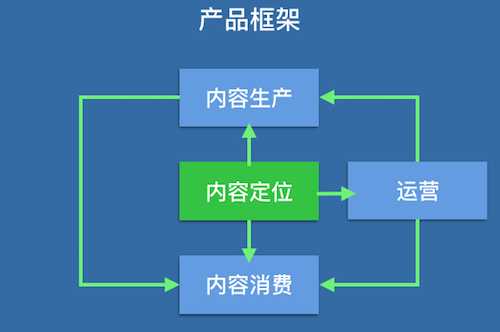
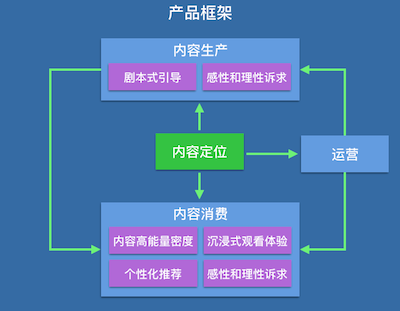
Update

diff --git a/_posts/opinion/2018-04-03-talk-about-douyin.md b/_posts/opinion/2018-04-03-talk-about-douyin.md
@@ -6,11 +6,17 @@ category: opinion
 tag: video, live
 ---
 
-抖音，一款音乐短视频应用，大家应该都知道，就不多介绍背景知识了。作为一个抖音中毒患者，这里从自己的使用体验上聊聊抖音。
+抖音，是一款最近特别火爆的音乐短视频应用。作为一名抖音中毒患者，本文基于自己的使用体验聊一聊这款产品。
+
+我会试着聊聊对一些产品细节的主观感受，其中会涉及到产品中的内容消费、内容生产、参与者诉求等方面。然后尝试从这些细节中来做一些抽象和归因，找找产品背后更具有普遍指导意义的经验。
+
+
 
 ## 产品框架
 
-我基于 iOS 1.7.6 版本，简要地画了一下抖音的产品框架，其中分别用蓝色和绿色背景着重用标出了「内容展示」和「内容创作」相关的页面。
+开聊之前，先看看大致的产品轮廓，有一个大体印象。
+
+我基于 iOS 1.7.6 版本，简要地画了一下抖音的产品框架，其中分别用蓝色和绿色背景着重用标出了「内容消费」和「内容生产」相关的页面或入口。
 
 ![image](../../images/talk-about-douyin/douyin-product-structure.png)
 
@@ -19,24 +25,25 @@ tag: video, live
 
 ## 内容消费
 
+抖音的产品中用户参与最多的环节应该是内容消费，所以从这块开始聊。
 
 ### 内容铺展
 
-从产品框架上来看，可以发现抖音中提供的内容形式大致可以分为这样几类：
+从产品框架上来看，可以发现抖音中组织的内容大致是这样分布的：
 
-- `即时性和短期时效性的内容`：主页顶栏的当前直播与故事。其中，直播是即时性内容；故事是自发布 24 小时内对用户可见的短期时效性内容。
+- `即时性和短期时效性的内容`：主页顶栏的当前直播与故事。其中，直播是即时性内容；故事是自发布 24 小时内对关注用户可见的短时效性内容。
 - `基于个性化推荐算法的内容`：主页推荐 Segment。
-- `基于地理位置的内容`：主页附近 Segment。
+- `基于 LBS 的内容`：主页附近 Segment。
 - `根据页面场景过滤的内容`：
 	- 搜索页面热门列表，由「挑战」和「音乐」过滤出来的固定数量（8 个）的视频集。
 	- 关注页面，由「关注的创作者」过滤出的视频集。
-	- 我的页面，由「我点过赞」过滤出的视频集。
+	- 我的页面，由「我赞过」过滤出的视频集。
 	- 挑战详情页面，由「挑战」过滤出的视频集。
 	- 音乐详情页面，由「音乐」过滤出的视频集。
 	- 用户个人页面，由「该用户创作」过滤出的视频集，由「该用户点过赞」过滤出的视频集。
 
 
-
+主要铺展内容形式是短视频，基于不同的场景进行各种维度的切分。直播和故事作为新的内容形式则较为谨慎地透出。
 
 
 ### 内容时长
@@ -46,7 +53,9 @@ tag: video, live
 - 15 秒，普通用户只能拍摄不超过 15 秒的视频。
 - 1 分钟，高质量创作者可以拍摄不超过 1 分钟的视频。
 
+15 秒短时长的内容使得内容节奏必须较快才能实现一次完整的表达，同时便于观看者快速消费。
 
+1 分钟的短视频是在较新的版本才逐步放开，这个设置应该是在产品从探索期完成冷启动进入成长期为了扩展内容边界所采取的举措。这个权限优先开放给高质量的创作者，以期望保证视频内容质量。
 
 
 ### 内容观感
@@ -55,16 +64,16 @@ tag: video, live
 
 首页一进来就直接是全屏视频自动开播，不绕弯子，直奔主题。
 
-大部分内容都是竖屏全屏铺满的，这样的视觉体验最佳，提供了沉浸式观看体验。
+大部分内容都是竖屏全屏铺满的，提供了沉浸式观看体验。
 
 在内容的呈现上，一般来说，横屏强调叙事，竖屏强调自我表达。
 
 
-2）美颜和滤镜
+2）美颜、滤镜、特效
 
 美颜和滤镜是现在各种短视频拍摄工具的标配。提升拍摄者的颜值和画面美感，是提升视频内容质量的重要手段。
 
-抖音的滤镜针对其音乐短视频的定位，做的还是挺炫酷的。
+抖音的特效滤镜针对其音乐短视频的定位，做的还是挺炫酷的。
 
 <!-- 补充滤镜视频 -->
 
@@ -73,7 +82,7 @@ tag: video, live
 
 抖音里视频的背景音乐大多是节奏感很强的音乐。这里有一个[抖音短视频 BGM 全收录][3]，大家可以听听试试。排在前面的音乐基本上都有鲜明的鼓点节奏。
 
-音乐本身其实就很像是一种「剧本」，当你听到有着鲜明节奏感的音乐，身体的本能就会告诉你该干什么。
+音乐本身其实就很像是一种「剧本」，只是这个剧本不是基于文字描述的，而是基于人的本能节奏。当你听到有着鲜明节奏感的音乐，身体的本能就会告诉你该干什么。
 
 
 4）内容类别
@@ -109,9 +118,9 @@ tag: video, live
 
 #### 内容的高能量密度
 
-要去评价抖音的内容为什么能够如此具有吸引力，从上面列出的这些点来看，其实维度很多，但是可以用一个词来抽象概括：「内容的高能量密度」。
+要去评价抖音的内容为什么能够如此具有吸引力，从上面列出的这些点来看，其实维度很多，常常我们会用「高质量」这样的词去描述，但是太笼统，不量化，所以没什么价值。这里推荐一个词：「内容能量密度」，好像也挺笼统，但是可以量化。
 
-何为内容能量密度？简单来说就是内容单位时间给用户的视听冲击。
+何为内容能量密度？简单来说就是内容单位时间给用户带来的视听冲击。
 
 美女帅哥、酷炫滤镜、强节奏感音乐等等元素在 15 秒的短时长内呈现给用户，使得内容的能量密度很高，给用户的感官刺激很强。而内容时长较短，又能促使用户快速消费，快速切换，就像在一针又一针给用户打药，嗨的就忘了时间了。
 
@@ -146,6 +155,7 @@ tag: video, live
 
 ## 内容生产
 
+内容生产是内容消费的上游，做好了内容定位后，最紧要的就是保证创作者们照着标准去生产。
 
 ### 创作入口
 
@@ -171,7 +181,7 @@ tag: video, live
 
 ### 创作功能
 
-创作流程提供的创作功能是为了帮助用户更方面地创作符合产品内容定位的作品：
+创作流程提供的创作功能是为了帮助用户更方便地创作符合产品内容定位的作品：
 
 - `美颜`，标配，提升创作者颜值，给用户更好的观感。
 - `滤镜`，标配，提升视频画面美感。
@@ -201,13 +211,14 @@ tag: video, live
 
 #### 剧本式引导
 
-上面也讲过了，在我看来，其实挑战、音乐同款、尬舞机都是剧本式引导。
+上面也讲过了，在我看来，其实挑战、音乐同款、尬舞机都是剧本式引导。其中，挑战和音乐同款这两种形式的约束相对宽松，一方面形式的边界有较大的扩展空间，一方面内容的边界也有创新的空间。
 
 剧本式引导是保证内容质量的一种手段，如果控制得当，它会引导创作者生产出大量符合水准的内容，在产品探索期可以帮助确定产品特色，打出产品调性。
 
 但是，也有个问题，剧本式引导带来大量的同质化内容，从长期来看可能导致用户审美疲劳，失去新鲜感。好在目前尚可通过扩展挑战内容和音乐类型来扩展内容类型的宽度，这种扩展在内容分发端则需要配合推荐算法来对内容的能量密度进行个性化细分，否则也可能留不住老用户又拉不来新用户。
 
 
+关于剧本式引导，这里值得一提的还有曾经红极一时的「小咖秀」，但是现在昙花一现了，这是值得思考的问题。
 
 
 
@@ -242,28 +253,35 @@ tag: video, live
 
 ### 从细节到抽象
 
-为什么要抽象？因为对一个产品的分析，最终应该是去从具体的形态和细节中去抽象出理论，找出归因。因为这些理论才更具有通用价值，而归因才更具有普遍解释性。当然，很多时候可能抽象错了，归因不对。
+为什么要抽象？因为对一个产品的分析，最终应该是去从具体的形态和细节中去抽象出理论，找出归因。因为这些理论才更具有通用价值，而归因才更具有普遍解释性。当然，很多时候也可能抽象错了，归因不对。
 
-我们对上面的分析过的一些产品细节进行简化，抽象出产品中的关键概念：
+我们对上面的分析过的一些产品细节进行简化，抽象出一些关键概念：
 
-![image](../../images/talk-about-douyin/key-point.png)
-
-这时候我们可以做这样的描述：在一个「产品框架」上基于产品的「内容定位」去支撑用户完成「内容生产」和「内容消费」的链路，并满足不同角色的感性和理性诉求，而「运营」则通过各种手段来促使这个链路围绕着「内容定位」高效地运作。
-
-
-这里再列一下几个关键词：
-
-- `内容的高能量密度`
-- `沉浸式的观看体验`
-- `高能量密度个性化有效内容的个性化推荐`
+- `内容定位`
+- `内容生产`
+- `内容消费`
+- `运营`
+- `内容高能量密度`
+- `沉浸式观看体验`
+- `个性化推荐`
 - `内容定位为纲`
 - `剧本式引导`
 - `创作者和观看者的感性和理性诉求`
 
 
+把这些概念组织到一个图中：
+
+
+![image](../../images/talk-about-douyin/key-point.png)
+
+这时候我们可以这样去描述：在一个「产品框架」上基于产品的「内容定位」去支撑用户完成「内容生产」和「内容消费」的链路，并满足不同角色的「感性和理性诉求」。在内容生产端，通过「剧本式引导」尽力确保创作者生产符合产品内容定位的作品；在内容消费端，通过保证「内容高能量密度」和「沉浸式观看体验」来让用户忘时中毒；最后，在「运营」端通过各种手段来促使这个链路围绕着「内容定位」高效地运作。
+
+
+
+
 ### 从抽象回到细节
 
-从抽象回到细节的过程，是在有效经验的基础上应用创新的过程。
+从抽象回到细节的过程，是在有效经验的框架上开展创新，并针对抽象描述开展落实细节的过程。
 
 
 以下举几个例子，抛砖引玉：
@@ -276,7 +294,7 @@ tag: video, live
 
 2、在「产品框架」上，要解决的问题是：如何高效地组织多种维度的内容来覆盖不同的场景和需求？如何提供高效的路径来引导用户创作符合内容定位的作品？如何支撑运营来有效干预和引导内容生产和内容消费的链路？
 
-抖音的产品框架我已经在文章开头就给出来了。那么，还有更加优秀的产品框架吗？
+抖音的产品框架我已经在文章开头就给出来了。那么，还有更好的产品框架吗？
 
 
 3、在「内容生产」上，要解决的问题是：如何围绕内容定位针对性地提供的创作工具？如何引导创作者围绕内容定位进行创作？
